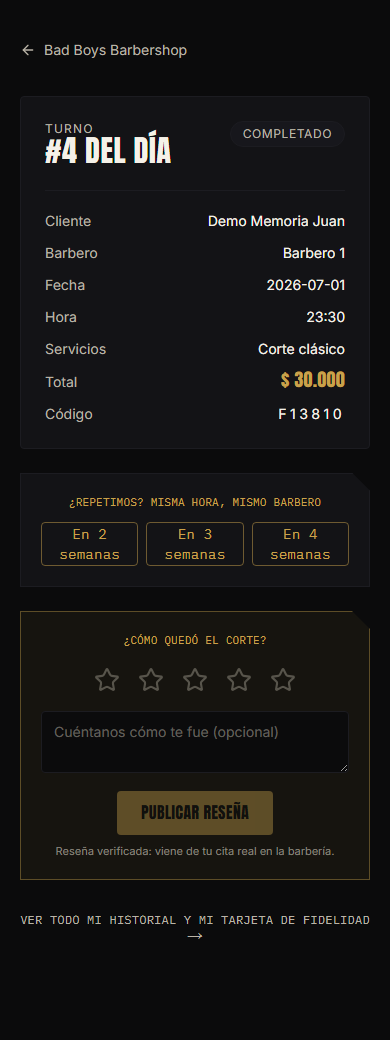
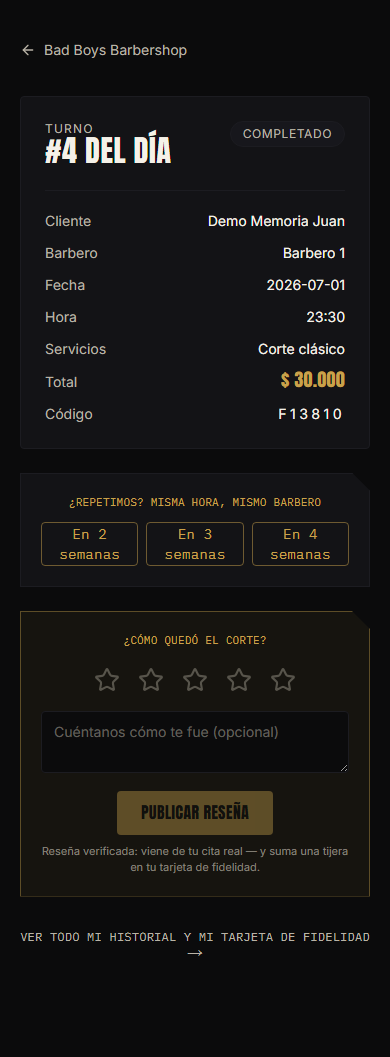
B5: dejar resena suma una tijera en la tarjeta de fidelidad
La fidelidad ahora compone tres fuentes sin dinero de por medio:
cortes completados + referidos que cortaron + resenas dejadas.
El portal muestra el desglose y el widget de resena lo anuncia.
60 pytest en verde (asercion nueva en el flujo de resenas).

diff --git a/frontend/app/mi-historial/page.tsx b/frontend/app/mi-historial/page.tsx
@@ -123,7 +123,19 @@ export default function PortalPage() {
                 <span className="data font-semibold text-gold">
                   {data.loyalty.progress}
                 </span>{" "}
-                de <span className="data">{data.loyalty.target}</span> —{" "}
+                de <span className="data">{data.loyalty.target}</span>
+                {(data.loyalty.referral_bonus > 0 || data.loyalty.review_bonus > 0) && (
+                  <span className="text-bone-2">
+                    {" "}
+                    (cortes {data.loyalty.completed_count}
+                    {data.loyalty.referral_bonus > 0 &&
+                      ` + ${data.loyalty.referral_bonus} por referidos`}
+                    {data.loyalty.review_bonus > 0 &&
+                      ` + ${data.loyalty.review_bonus} por reseñas`}
+                    )
+                  </span>
+                )}{" "}
+                —{" "}
                 {data.loyalty.remaining === data.loyalty.target
                   ? "arranca tu ronda."
                   : `te faltan ${data.loyalty.remaining} para: `}

diff --git a/frontend/app/turno/[code]/page.tsx b/frontend/app/turno/[code]/page.tsx
@@ -529,7 +529,8 @@ function ReviewWidget({
         Publicar reseña
       </button>
       <p className="mt-2 text-[11px] text-bone-2/70">
-        Reseña verificada: viene de tu cita real en la barbería.
+        Reseña verificada: viene de tu cita real — y suma una tijera en tu
+        tarjeta de fidelidad.
       </p>
     </div>
   );

diff --git a/frontend/lib/types.ts b/frontend/lib/types.ts
@@ -156,6 +156,7 @@ export interface ReviewsResponse {
 export interface LoyaltyStatus {
   completed_count: number;
   referral_bonus: number;
+  review_bonus: number;
   target: number;
   progress: number;
   remaining: number;

diff --git a/backend/app/services/clients.py b/backend/app/services/clients.py
@@ -13,7 +13,7 @@ from zoneinfo import ZoneInfo
 from sqlalchemy import func, select
 from sqlalchemy.orm import Session
 
-from ..models import Appointment, Barber, ClientNote, ClientReferralCode, Tenant
+from ..models import Appointment, Barber, ClientNote, ClientReferralCode, Review, Tenant
 
 DEFAULT_TARGET = 10
 DEFAULT_REWARD = "El corte 10 va por la casa"
@@ -75,11 +75,19 @@ def loyalty_status(db: Session, tenant: Tenant, phone: str) -> dict:
         )
     ) or 0
     bonus = referral_bonus(db, tenant, phone)
-    total = completed + bonus
+    # Recompensa por reseñar (B5): cada reseña dejada suma una tijera
+    review_bonus = db.scalar(
+        select(func.count()).select_from(Review).where(
+            Review.tenant_id == tenant.id,
+            Review.customer_whatsapp == phone,
+        )
+    ) or 0
+    total = completed + bonus + review_bonus
     progress = total % target
     return {
         "completed_count": completed,
         "referral_bonus": bonus,
+        "review_bonus": review_bonus,
         "target": target,
         "progress": progress,
         "remaining": target - progress,

diff --git a/backend/tests/test_clients_reviews.py b/backend/tests/test_clients_reviews.py
@@ -120,6 +120,14 @@ def test_verified_reviews_flow(client, client_history, barbers):
     assert ticket["review_rating"] == 5
     assert ticket["can_review"] is False
 
+    # B5: la reseña suma una tijera en la fidelidad
+    portal = client.post(
+        f"{BASE}/portal",
+        json={"customer_whatsapp": PHONE, "manage_code": completed_code},
+    ).json()
+    assert portal["loyalty"]["review_bonus"] == 1
+    assert portal["loyalty"]["progress"] == 4  # 3 cortes + 1 reseña
+
 
 def test_style_notes_and_profile(client, admin_headers, barbero_headers, client_history,
                                  barbers):
